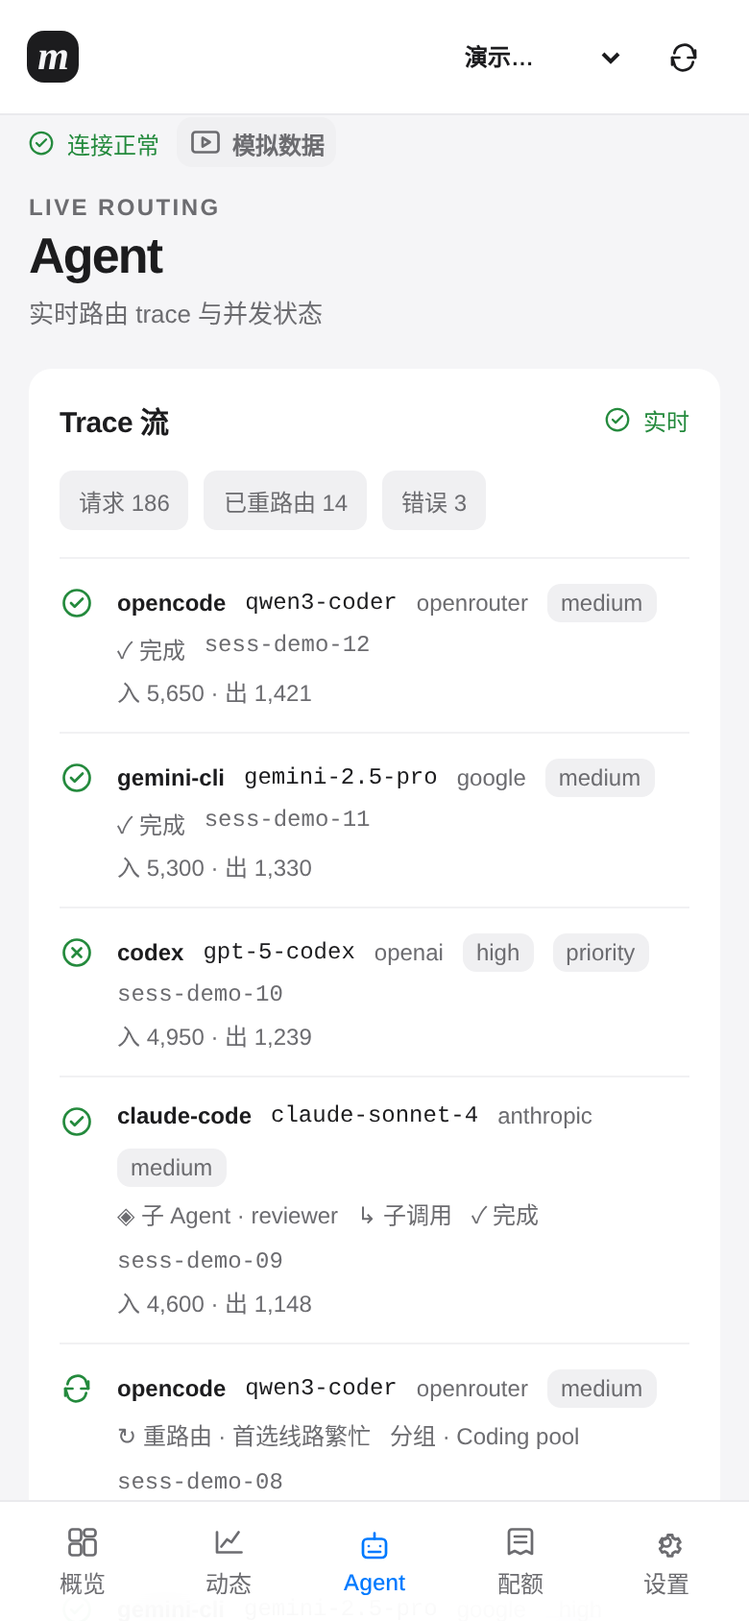
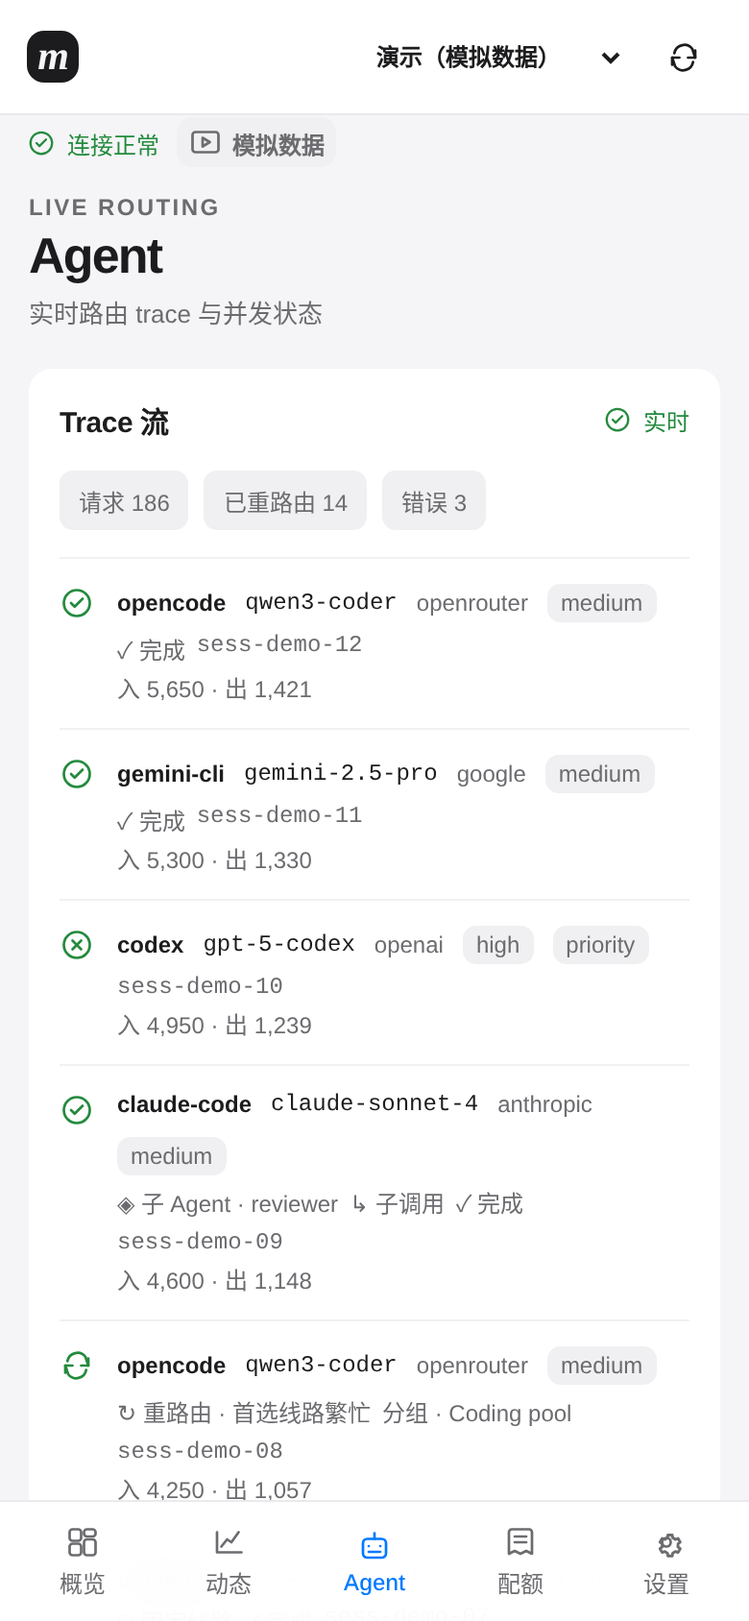
fix(ui): rebase mock timestamps to now, pixel-sized trend chart, quota card cleanup, compact agent rows

diff --git a/src/app.tsx b/src/app.tsx
@@ -1,4 +1,4 @@
-import { useCallback, useEffect, useMemo, useState } from 'preact/hooks';
+import { useCallback, useEffect, useMemo, useRef, useState } from 'preact/hooks';
 import type { ComponentChildren } from 'preact';
 import { GatewayClient } from './core/gateway-client';
 import { WebClient } from './core/web-client';
@@ -98,7 +98,7 @@ export default function App() {
     <nav class="mobile-nav" aria-label="主导航">{nav.map(n => <a href={`#/${n.id}`} onClick={() => chooseTab(n.id)} aria-current={tab === n.id ? 'page' : undefined}><Icon name={n.icon}/><span>{n.label}</span></a>)}</nav>
     <main class="main-content"><div class="page-wrap">
       {tab === 'overview' && <><div class="page-heading"><div><p class="eyebrow">MAGPIE MONITOR</p><h1>概览</h1><p>网关使用情况与运行状态</p></div>{profile.webGuiUrl && <a class="button button-secondary external" href={profile.webGuiUrl} target="_blank" rel="noopener noreferrer"><Icon name="external-link"/>打开 magpie web</a>}</div>
-        {error && <ErrorBox message={error} retry={() => void refresh()}/ >}{loading && !usage ? <Skeletons/> : <><Card class="connection-card"><div class="connection-state"><Status kind={error ? 'error' : 'ok'}>连接 {error ? '错误' : '正常'}</Status><span>版本 <b class="mono">{hello?.version ?? '—'}</b></span></div><span class="muted">最后更新 {dateTime(lastUpdated)}</span></Card>
+        {error && <ErrorBox message={error} retry={() => void refresh()}/ >}{loading && !usage ? <Skeletons/> : <><Card class="connection-card"><div class="connection-state"><Status kind={error ? 'error' : 'ok'}>{error ? '连接错误' : '连接正常'}</Status><span>版本 <b class="mono">{hello?.version ?? '—'}</b></span></div><span class="muted">最后更新 {dateTime(lastUpdated)}</span></Card>
           <div class="grid metrics-grid"><Metric icon="activity" label="今日请求" value={fmt(usage?.calls)}/><Metric icon="gauge" label="今日 token" value={usage?.tokens === undefined ? '—' : formatTokens(usage.tokens)} hint="输入 + 输出"/><Metric label="今日费用" value={money(usage?.cost)}/><Metric label="错误数" value={fmt(usage?.errors)}/><Metric label="并发" value={`${fmt(concurrency?.active?.length ?? concurrency?.requests)} / ${fmt(concurrency?.waiting)}`} hint="运行中 / 等待中"/></div>
           <Section title="配额概览" action={<button class="text-button" onClick={() => chooseTab('quotas')}>查看全部 <span aria-hidden="true">→</span></button>}/><div class="grid quota-grid">{topQuotas.map(x => <QuotaCard provider={x.provider} window={x.window} usage={usage}/>)}</div>
           <KeyValueCard title="限额信息" subtitle="网关当前限制配置" value={limitInfo}/><KeyValueCard title="服务信息" subtitle="网关版本信息" value={hello}/></>}
@@ -125,14 +125,14 @@ export default function App() {
 }
 
 function Section({ title, action }: { title: string; action?: ComponentChildren }) { return <div class="section-heading"><h2>{title}</h2>{action}</div>; }
-function TrendChart({ series }: { series: any[] }) { const values = series.map(p => Number(p.calls ?? 0)); const max = Math.max(1, ...values); const width = 760, height = 220, left = 46, right = 8, top = 12, bottom = 28, plotW = width - left - right, plotH = height - top - bottom, gap = values.length > 1 ? 4 : 0, bar = Math.max(1, (plotW - gap * Math.max(0, values.length - 1)) / Math.max(1, values.length)), tickStep = Math.max(1, Math.ceil(values.length / 5)); const label = (p:any) => p?.label ?? dateTime(p?.time); return <div class="chart-wrap"><svg viewBox={`0 0 ${width} ${height}`} role="img" aria-label="请求数量趋势"><title>按时间段统计的请求数量趋势</title>{[0,1,2,3].map(i => { const value = max * (3-i)/3, y = top + i*plotH/3; return <g><path d={`M${left} ${y}H${width-right}`} class="chart-grid"/><text x={left-7} y={y+4} text-anchor="end" class="chart-y-label">{compactNumber(value)}</text></g>; })}{values.map((v, i) => { const h = Math.max(v ? 2 : 0, v / max * plotH); const x=left+i*(bar+gap); return <rect x={x} y={top+plotH-h} width={bar} height={h} rx="2" tabIndex={0} aria-label={`${label(series[i])}: ${fmt(v)} 个请求`}><title>{label(series[i])} · {fmt(v)} 个请求</title></rect>; })}{values.map((_,i) => i===0 || i===values.length-1 || i%tickStep===0 ? <text x={left+i*(bar+gap)+bar/2} y={height-5} text-anchor="middle" class="chart-x-label">{label(series[i])}</text> : null)}</svg></div>; }
+function TrendChart({ series }: { series: any[] }) { const host = useRef<HTMLDivElement>(null); const [width, setWidth] = useState(600), [height, setHeight] = useState(() => matchMedia('(max-width: 760px)').matches ? 180 : 220); useEffect(() => { const el = host.current; if (!el) return; const update = () => setWidth(el.clientWidth || 600); update(); if (typeof ResizeObserver !== 'undefined') { const observer = new ResizeObserver(update); observer.observe(el); return () => observer.disconnect(); } addEventListener('resize', update); return () => removeEventListener('resize', update); }, []); useEffect(() => { const media = matchMedia('(max-width: 760px)'), update = () => setHeight(media.matches ? 180 : 220); update(); media.addEventListener?.('change', update); return () => media.removeEventListener?.('change', update); }, []); const values = series.map(p => Number(p.calls ?? 0)); const max = Math.max(1, ...values); const left = 46, right = 8, top = 12, bottom = 28, plotW = width - left - right, plotH = height - top - bottom, gap = values.length > 1 ? 4 : 0, bar = Math.max(1, (plotW - gap * Math.max(0, values.length - 1)) / Math.max(1, values.length)), tickStep = Math.max(1, Math.ceil(values.length / Math.max(1, Math.floor(width / 80)))); const label = (p:any) => p?.label ?? dateTime(p?.time); return <div class="chart-wrap" ref={host}><svg width={width} height={height} role="img" aria-label="请求数量趋势"><title>按时间段统计的请求数量趋势</title>{[0,1,2,3].map(i => { const value = max * (3-i)/3, y = top + i*plotH/3; return <g><path d={`M${left} ${y}H${width-right}`} class="chart-grid"/><text x={left-7} y={y+4} text-anchor="end" class="chart-y-label">{compactNumber(value)}</text></g>; })}{values.map((v, i) => { const h = Math.max(v ? 2 : 0, v / max * plotH); const x=left+i*(bar+gap); return <rect x={x} y={top+plotH-h} width={bar} height={h} rx="2" tabIndex={0} aria-label={`${label(series[i])}: ${fmt(v)} 个请求`}><title>{label(series[i])} · {fmt(v)} 个请求</title></rect>; })}{values.map((_,i) => i===0 || i===values.length-1 || i%tickStep===0 ? <text x={left+i*(bar+gap)+bar/2} y={height-5} text-anchor="middle" class="chart-x-label">{label(series[i])}</text> : null)}</svg></div>; }
 function compactNumber(n:number) { return Intl.NumberFormat('zh-CN',{notation:'compact',maximumFractionDigits:1}).format(n); }
 function Ledger({ rows }: { rows: Row[] }) { if (!rows.length) return <Empty text="此时间段暂无请求记录"/>; return <><div class="ledger-table-wrap"><table class="ledger-table"><thead><tr><th>时间</th><th>Agent</th><th>模型</th><th>Provider</th><th>Tokens（入 / 出）</th><th>费用</th><th>状态</th></tr></thead><tbody>{rows.map(r => <LedgerRow row={r}/>)}</tbody></table></div><div class="ledger-mobile">{rows.map(r => <LedgerRow row={r} mobile/>)}</div></>; }
 function LedgerRow({ row, mobile = false }: { row: Row; mobile?: boolean }) { const r = row as Record<string, any>; const ok = Number(r.status ?? 200) < 400; const when = dateTime(typeof r.t === 'string' ? r.t : undefined); const incoming = typeof r.in === 'number' ? r.in : undefined, outgoing = typeof r.out === 'number' ? r.out : undefined; const cost = typeof r.cost === 'number' ? r.cost : undefined; const agent = String(r.agentName ?? r.agent ?? '—'), model = String(r.model ?? '—'), provider = String(r.providerName ?? r.provider ?? '—'); return mobile ? <Card class="ledger-mobile-row"><div class="ledger-mobile-top"><time>{when}</time><Status kind={ok ? 'ok' : 'error'}>{ok ? '正常' : '错误'}</Status></div><strong>{agent}</strong><code>{model}</code><div class="ledger-meta"><span>{provider}</span><span>{fmt(incoming)} / {fmt(outgoing)}</span><span>{money(cost)}</span></div>{(row.swapped || row.routed) && <small>已切换 / 已路由</small>}</Card> : <tr><td>{when}</td><td>{agent}</td><td><code>{model}</code></td><td>{provider}</td><td class="number-cell">{fmt(incoming)} / {fmt(outgoing)}</td><td>{money(cost)}</td><td><span class="row-status"><Status kind={ok ? 'ok' : 'error'}>{ok ? '正常' : '错误'}</Status>{(row.swapped || row.routed) && <span class="muted">已路由</span>}</span></td></tr>; }
-function TraceList({ routes, emptyLabel }: { routes: Route[]; emptyLabel: string }) { if (!routes.length) return <Empty text={emptyLabel}/>; return <div class="trace-list">{routes.map(r => { const x = r as any, inTokens=(x.usage??[]).reduce((n:any,u:any)=>n+(u.in??0),0), outTokens=(x.usage??[]).reduce((n:any,u:any)=>n+(u.out??0),0); return <div class="trace-row"><div class="trace-icon"><Icon name={x.error || (x.status && x.status >= 400) ? 'x-circle' : x.rule ? 'refresh' : 'check-circle'}/></div><div class="trace-body"><div class="trace-title"><strong>{x.agent ?? 'Agent'}</strong><code>{x.model ?? '—'}</code><span class="muted">{x.provider ?? ''}</span>{x.effort && <span class="chip trace-chip">{x.effort}</span>}{x.tier && <span class="chip trace-chip">{x.tier}</span>}</div><div class="trace-sub">{x.rule && <span>↻ 重路由 · {x.rule.reason ?? x.rule.name}</span>}{x.group?.name && <span>分组 · {x.group.name}</span>}{x.subagent && <span>◈ 子 Agent · {x.subagent.name ?? '是'}</span>}{x.pinned && <span>⌖ 固定线路</span>}{x.rerouted && !x.rule && <span>↻ 已重路由</span>}{x.parentSession && <span>↳ 子调用</span>}{!x.rule && !x.error && <span>✓ 完成</span>}{x.session && <code>{x.session}</code>}</div><div class="trace-usage">入 {fmt(inTokens)} · 出 {fmt(outTokens)}{x.cost != null && x.priced && <span>· 费用 {money(x.cost)}</span>}</div></div><time title={x.time}>{relativeAgo(x.time)}</time></div>; })}</div>; }
+function TraceList({ routes, emptyLabel }: { routes: Route[]; emptyLabel: string }) { if (!routes.length) return <Empty text={emptyLabel}/>; return <div class="trace-list">{routes.map(r => { const x = r as any, inTokens=(x.usage??[]).reduce((n:any,u:any)=>n+(u.in??0),0), outTokens=(x.usage??[]).reduce((n:any,u:any)=>n+(u.out??0),0); return <div class="trace-row"><div class="trace-icon"><Icon name={x.error || (x.status && x.status >= 400) ? 'x-circle' : x.rule ? 'refresh' : 'check-circle'}/></div><div class="trace-body"><div class="trace-title"><strong>{x.agent ?? 'Agent'}</strong><code>{x.model ?? '—'}</code><span class="muted">{x.provider ?? ''}</span>{x.effort && <span class="chip trace-chip">{x.effort}</span>}{x.tier && <span class="chip trace-chip">{x.tier}</span>}</div><div class="trace-details"><div class="trace-sub">{x.rule && <span>↻ 重路由 · {x.rule.reason ?? x.rule.name}</span>}{x.group?.name && <span>分组 · {x.group.name}</span>}{x.subagent && <span>◈ 子 Agent · {x.subagent.name ?? '是'}</span>}{x.pinned && <span>⌖ 固定线路</span>}{x.rerouted && !x.rule && <span>↻ 已重路由</span>}{x.parentSession && <span>↳ 子调用</span>}{!x.rule && !x.error && <span>✓ 完成</span>}{x.session && <code>{x.session}</code>}</div><div class="trace-usage">入 {fmt(inTokens)} · 出 {fmt(outTokens)}{x.cost != null && x.priced && <span> · 费用 {money(x.cost)}</span>}</div></div></div><time title={dateTime(x.time)}>{relativeAgo(x.time)}</time></div>; })}</div>; }
 function relativeAgo(s?:string) { if(!s)return '—'; const mins=Math.max(0,Math.floor((Date.now()-new Date(s).getTime())/60000)); return mins<1?'刚刚':mins<60?`${mins} 分钟前`:`${Math.floor(mins/60)} 小时前`; }
 function Lane({ lane }: { lane: any }) { const busy = lane.busy ?? 0, waiting = lane.waiting ?? 0, limit = lane.limit ?? Math.max(1, busy); const pct = Math.min(100, Math.round(busy / limit * 100)); return <Card class="lane-card"><div class="lane-head"><strong class="mono">{lane.id ?? lane.name ?? lane.provider ?? 'Provider'}</strong><Status kind={waiting ? 'warn' : 'ok'}>{waiting ? '等待中' : '正常'}</Status></div><div class="progress"><span style={{ width: `${pct}%` }}/></div><div class="lane-foot"><span>运行中 {busy} / {limit}</span><span>等待 {waiting}</span></div></Card>; }
-function GenericQuota({ card }: { card: Record<string, any> }) { return <Card class="generic-card"><div class="generic-head"><div><h3>{card.name ?? card.title ?? card.provider ?? '配额'}</h3><p>{[card.provider, card.plan ?? card.kind].filter(Boolean).join(' · ')}</p></div></div>{(card.windows ?? []).map((w:any)=><div class="generic-window"><div class="generic-window-head"><span>{w.name}</span><strong>{Number.isFinite(Number(w.used))?`${Math.round(Number(w.used))}%`:Number.isFinite(Number(w.amount))&&Number.isFinite(Number(w.limit))&&Number(w.limit)>0?`${Math.round(Number(w.amount)/Number(w.limit)*100)}%`:''}</strong></div><div class="progress"><span style={{width:`${Math.min(100,Math.max(0,Number(w.used ?? (Number(w.limit) > 0 ? Number(w.amount) / Number(w.limit) * 100 : 0))))}%`}}/></div>{/^(token|tokens)$/i.test(w.unit??'')&&<small>已消耗 {formatTokens(Number(w.amount ?? w.used ?? 0))} token</small>}</div>)}{(card.balance || card.balanceSplit?.length) && <div class="balance-rows">{card.balance && <div><span>余额</span><strong>{formatAmount(card.balance)}</strong></div>}{(card.balanceSplit??[]).map((b:any)=><div><span>{b.name}</span><strong>{formatAmount(b.balance ?? b.amount)}</strong></div>)}</div>}{card.asOf && <small class="as-of">更新于 {dateTime(card.asOf)}</small>}</Card>; }
+function GenericQuota({ card }: { card: Record<string, any> }) { return <Card class="generic-card"><div class="generic-head"><div><h3>{card.name ?? card.title ?? card.provider ?? '配额'}</h3><p>{[card.provider, card.plan ?? card.kind].filter(Boolean).join(' · ')}</p></div></div>{(card.windows ?? []).map((w:any)=>{ const pct = Math.round(Number(w.used ?? (Number(w.limit) > 0 ? Number(w.amount) / Number(w.limit) * 100 : 0))), level = pct >= 100 ? 'error' : pct >= 80 ? 'warn' : 'ok', windowName = /^(5-hour|5h)$/i.test(w.name) ? '5 小时' : /^(weekly|week)$/i.test(w.name) ? '每周' : w.name; return <div class={`generic-window quota-${level}`}><div class="generic-window-head"><span>{windowName}</span>{pct > 0 && <strong>{pct}%</strong>}</div><div class="progress"><span style={{width:`${Math.min(100,Math.max(0,pct))}%`}}/></div>{/^(token|tokens)$/i.test(w.unit??'')&&<small>已消耗 {formatTokens(Number(w.amount ?? w.used ?? 0))} token</small>}</div>; })}{(card.balance || card.balanceSplit?.length) && <div class="balance-rows">{card.balance && <div><span>余额</span><strong>{formatAmount(card.balance)}</strong></div>}{(card.balanceSplit??[]).map((b:any)=><div><span>{b.name}</span><strong>{formatAmount(b.balance ?? b.amount)}</strong></div>)}</div>}{card.asOf && <small class="as-of">更新于 {dateTime(card.asOf)}</small>}</Card>; }
 function formatAmount(v:any) { if(typeof v==='number')return money(v); if(typeof v==='string' && /^\$?-?[\d,.]+$/.test(v)){const n=Number(v.replace(/[$,]/g,''));return money(n);} return String(v); }
 function KeyValueCard({title,subtitle,value}:{title:string;subtitle:string;value:any}) { if(!value||typeof value!=='object')return null; const entries=Object.entries(value).filter(([,v])=>v!=null&&['string','number','boolean'].includes(typeof v)&&String(v).trim()!==''); if(!entries.length)return null; return <Card class="limit-card"><div><h2>{title}</h2><p>{subtitle}</p></div><dl>{entries.map(([k,v])=><div><dt>{keyLabel(k)}</dt><dd class={/id|key/i.test(k)?'mono':''}>{typeof v==='number'?fmt(v):typeof v==='boolean'?(v?'是':'否'):String(v)}</dd></div>)}</dl></Card>; }
 function keyLabel(k:string){return ({name:'名称',version:'版本',limit:'限额',requests:'请求数',tokens:'Token',active:'运行中',waiting:'等待中'} as Record<string,string>)[k]??k;}

diff --git a/src/core/transport.ts b/src/core/transport.ts
@@ -80,13 +80,24 @@ export class MockTransport implements Transport {
     constructor(private options: {
         latencyMs?: number;
         traceWaitMs?: number;
+        now?: () => Date;
     } = {}) { }
+    private fixtures() {
+        const all = Object.fromEntries(Object.entries(fixtures).map(([key, value]) => [key, structuredClone(value)])) as Record<string, any>;
+        const recordTimes: number[] = [];
+        const visit = (value: any): void => { if (!value || typeof value !== 'object') return; if (Array.isArray(value)) { value.forEach(visit); return; } for (const key of ['time', 't']) { const n = Date.parse(value[key]); if (Number.isFinite(n)) recordTimes.push(n); } Object.values(value).forEach(visit); };
+        for (const key of ['ledger', 'usage', 'trace', 'route']) visit(all[`../mock/fixtures/${key}.json`]);
+        const now = (this.options.now?.() ?? new Date()).getTime(), offset = now - 60_000 - Math.max(...recordTimes);
+        const shift = (value: any): void => { if (!value || typeof value !== 'object') return; if (Array.isArray(value)) { value.forEach(shift); return; } for (const [key, item] of Object.entries(value)) { if (typeof item === 'string' && /^(t|time|resetsAt|asOf|readAt|until|since|day)$/.test(key) && Number.isFinite(Date.parse(item))) { let ms = Date.parse(item) + offset; if (key === 'resetsAt') while (ms <= now) ms += 86_400_000; value[key] = key === 'day' ? new Date(ms).toISOString().slice(0, 10) : new Date(ms).toISOString(); } else shift(item); } };
+        Object.values(all).forEach(shift);
+        return all;
+    }
     async request(req: Request) { const names: Record<string, string> = { '/api/hello': 'hello', '/v1/magpie/limit': 'hello', '/v1/magpie/usage': 'usage', '/v1/magpie/usage/requests': 'ledger', '/v1/magpie/quotas': 'quotas', '/v1/magpie/quotas/cards': 'quota_cards', '/v1/magpie/concurrency': 'concurrency', '/api/gateway/trace': 'trace', '/v1/magpie/route': 'route' }; const name = names[req.path]; if (req.path === '/api/gateway/trace' && this.traceCalls++ > 0) await sleep(this.options.traceWaitMs ?? 4000, req.signal); else await sleep(req.path === '/api/gateway/trace' ? 0 : this.options.latencyMs ?? 0, req.signal); if (req.path === '/v1/magpie/quotas/history')
-        return { status: 200, json: { data: [] } }; if (req.path === '/api/gateway/history')
-        return { status: 200, json: { days: ['2026-10-17'], routes: (fixtures['../mock/fixtures/trace.json'] as {
+        return { status: 200, json: { data: [] } }; if (req.path === '/api/gateway/history') {
+        const shifted = this.fixtures(); return { status: 200, json: { days: [new Date((this.options.now?.() ?? new Date()).getTime() - 60_000).toISOString().slice(0, 10)], routes: (shifted['../mock/fixtures/trace.json'] as {
                     routes: unknown[];
-    }).routes, cut: false } }; if (!name)
-    throw statusError(404); const json = structuredClone(fixtures[`../mock/fixtures/${name}.json`]) as Record<string, unknown>; if (name === 'trace') {
+    }).routes, cut: false } }; } if (!name)
+    throw statusError(404); const json = this.fixtures()[`../mock/fixtures/${name}.json`] as Record<string, unknown>; if (name === 'trace') {
         const fixtureRoutes = json.routes as Record<string, any>[];
         if (Number(req.query?.after) === 0 && this.traceCalls === 1) {
             const routes = fixtureRoutes.slice().sort((a,b) => Number(b.seq)-Number(a.seq));
@@ -96,7 +107,7 @@ export class MockTransport implements Transport {
             this.seq = Math.max(this.seq, Number(req.query?.after) || 0, Number(json.seq) || 0) + 1;
             const source = fixtureRoutes[(this.seq - 632) % fixtureRoutes.length];
             json.seq = this.seq;
-            json.routes = [{ ...source, seq: this.seq, id: this.seq + 3500, time: new Date().toISOString(), session: `sess-demo-${String(this.seq).slice(-3)}` }];
+            json.routes = [{ ...source, seq: this.seq, id: this.seq + 3500, time: new Date((this.options.now?.() ?? new Date()).getTime() - 60_000).toISOString(), session: `sess-demo-${String(this.seq).slice(-3)}` }];
         }
     } if (name === 'ledger') {
         const rows = json.rows as unknown[], offset = Math.max(0, Number(req.query?.offset) || 0), limit = Math.max(0, Number(req.query?.limit ?? rows.length));

diff --git a/src/styles/base.css b/src/styles/base.css
@@ -68,3 +68,16 @@ a { color: inherit; text-decoration: none; }
 @media (max-width: 760px) { .topbar { height: 60px; padding: 0 14px; gap: 10px; }.brand { min-width: 0; font-size: 17px; }.brand-mark { width: 27px; height: 27px; }.header-profile { margin-left:auto; max-width:45vw; }.header-profile select { width:100%; max-width:45vw; padding-right:24px; font-size:12px; }.header-state { display: flex; position: fixed; z-index: 9; top: 60px; left: 14px; right: 14px; height: 28px; gap: 9px; background: var(--color-bg); }.mode-pill { display: none; }.top-actions { margin-left: 0; }.top-actions .external { display: none; }.refresh-button { min-width: 40px; width: 40px; padding: 0; }.refresh-button span { display: none; }.sidebar { display: none; }.main-content { margin: 0; padding: 101px 15px calc(72px + env(safe-area-inset-bottom)); }.page-heading { align-items: flex-start; margin-bottom: 20px; }.page-heading h1 { font-size: 26px; }.page-heading > .button { display: none; }.mobile-nav { position: fixed; z-index: 10; inset: auto 0 0; display: grid; grid-template-columns: repeat(5, 1fr); padding: 5px 5px calc(5px + env(safe-area-inset-bottom)); background: color-mix(in srgb, var(--color-bg-elevated) 94%, transparent); border-top: 1px solid color-mix(in srgb, var(--color-separator) 45%, transparent); backdrop-filter: blur(16px); }.mobile-nav a { min-height: 52px; padding: 4px 2px; justify-content: center; flex-direction: column; gap: 3px; font-size: 12px; }.mobile-nav a[aria-current="page"] { color: var(--color-accent); }.metrics-grid { grid-template-columns: repeat(2, minmax(0, 1fr)); gap: 9px; }.metric { min-height: 104px; padding: 13px; gap: 9px; }.metric-value { font-size: 24px; }.quota-grid, .generic-quota-grid, .lanes-grid { grid-template-columns: 1fr; gap: 9px; }.connection-card { align-items: flex-start; flex-direction: column; }.connection-state { gap: 14px; }.ledger-table-wrap { display: none; }.ledger-mobile { display: grid; gap: 8px; }.ledger-mobile-row { display: grid; gap: 7px; }.ledger-mobile-top, .ledger-meta { display: flex; align-items: center; justify-content: space-between; gap: 8px; }.ledger-mobile-row time, .ledger-mobile-row code, .ledger-mobile-row small { color: var(--color-text-secondary); font-size: 12px; }.ledger-meta { font-size: 12px; color: var(--color-text-secondary); }.segmented button { padding-inline: 9px; }.chart-card { padding: 14px 12px 10px; }.chart-wrap svg { height: 160px; }.error-box { align-items: flex-start; flex-wrap: wrap; }.error-box p { flex-basis: 70%; }.profile-row { align-items: flex-start; flex-direction: column; }.form-grid { grid-template-columns: 1fr; }.limit-card { align-items: flex-start; flex-direction: column; }.limit-card .mono { max-width: 100%; overflow-wrap: anywhere; }.trace-row time { display: none; }.section-heading { margin-top: 22px; } }
 @media (prefers-reduced-motion: reduce) { *, *::before, *::after { scroll-behavior: auto !important; animation-duration: .01ms !important; animation-iteration-count: 1 !important; transition-duration: .01ms !important; } }
 @media (max-width: 400px) { .brand > span:last-child { display: none; }.header-profile select { max-width: 90px; }.header-state .badge { padding: 4px 6px; font-size: 12px; } }
+.chart-wrap svg { width: auto; height: auto; max-width: 100%; }
+.chart-y-label, .chart-x-label { font: 12px var(--font-sans); }
+.trace-details { display:flex; align-items:center; gap:8px; margin-top:5px; min-width:0; }
+.trace-details .trace-sub, .trace-details .trace-usage { margin:0; }
+.trace-details .trace-sub { gap:6px; }
+.trace-details .trace-usage { white-space:nowrap; }
+@media (max-width:760px) {
+  .header-profile { max-width:50vw; flex:0 0 auto; }
+  .header-profile select { width:max-content; max-width:50vw; padding-right:18px; }
+  .top-actions { margin-left:0; }
+  .trace-details { align-items:flex-start; flex-direction:column; gap:3px; }
+  .trace-details .trace-usage { white-space:normal; }
+}

diff --git a/tests/unit/transport.test.ts b/tests/unit/transport.test.ts
@@ -12,3 +12,14 @@ it('composes timeout and caller cancellation, removes timers', async () => { vi.
     reject(new DOMException('Aborted', 'AbortError')); init?.signal?.addEventListener('abort', () => reject(new DOMException('Aborted', 'AbortError'))); })); const transport = new ProxyTransport({ fetch: fetcher }); const timed = expect(transport.request({ api: 'web', path: '/x', timeoutMs: 35 })).rejects.toEqual({ kind: 'timeout' }); await vi.advanceTimersByTimeAsync(35); await timed; const controller = new AbortController(); const aborted = expect(transport.request({ api: 'web', path: '/x', signal: controller.signal })).rejects.toEqual({ kind: 'aborted' }); controller.abort(); await aborted; expect(vi.getTimerCount()).toBe(0); });
 it('clients build typed query parameters and longpoll timeout', async () => { const request = vi.fn(async () => ({ status: 200, json: {} })); const transport = { request }; const gateway = new GatewayClient(transport), web = new WebClient(transport); await gateway.requests({ period: 'today', offset: 10, limit: 20, filters: { model: 'a/b', provider: 'p' } }); expect(request).toHaveBeenLastCalledWith(expect.objectContaining({ api: 'gateway', path: '/v1/magpie/usage/requests', query: { period: 'today', offset: 10, limit: 20, model: 'a/b', provider: 'p' } })); await gateway.route('session', 3, 25); expect(request).toHaveBeenLastCalledWith(expect.objectContaining({ query: { session: 'session', after: 3, wait: 25 }, timeoutMs: 35000 })); const c = new AbortController(); await web.trace(42, 1, c.signal); expect(request).toHaveBeenLastCalledWith({ api: 'web', path: '/api/gateway/trace', query: { after: 42, wait: 1 }, signal: c.signal, timeoutMs: 35000 }); await web.history('2026-10-17'); expect(request).toHaveBeenLastCalledWith(expect.objectContaining({ query: { day: '2026-10-17' } })); });
 it('mock never invokes fetch and supports aborting latency', async () => { vi.useFakeTimers(); const spy = vi.spyOn(globalThis, 'fetch'); const c = new AbortController(); const p = expect(new MockTransport({ latencyMs: 100 }).request({ api: 'web', path: '/api/hello', signal: c.signal })).rejects.toEqual({ kind: 'aborted' }); c.abort(); await p; expect(spy).not.toHaveBeenCalled(); });
+it('rebases mock timestamps deterministically and keeps quota resets in the future', async () => {
+  const now = new Date('2030-04-05T12:00:00.000Z');
+  const transport = new MockTransport({ now: () => now });
+  const ledger = await transport.request({ api: 'gateway', path: '/v1/magpie/usage/requests' });
+  const rows = (ledger.json as any).rows as any[];
+  expect(Math.max(...rows.map(row => Date.parse(row.t ?? row.time)))).toBe(now.getTime() - 60_000);
+  const quotas = await transport.request({ api: 'gateway', path: '/v1/magpie/quotas' });
+  const data = (quotas.json as any).data as any[];
+  expect(data.every(q => Date.parse(q.asOf) === now.getTime() - 60_000)).toBe(true);
+  expect(data.flatMap(q => q.windows).every((w: any) => Date.parse(w.resetsAt) > now.getTime())).toBe(true);
+});
